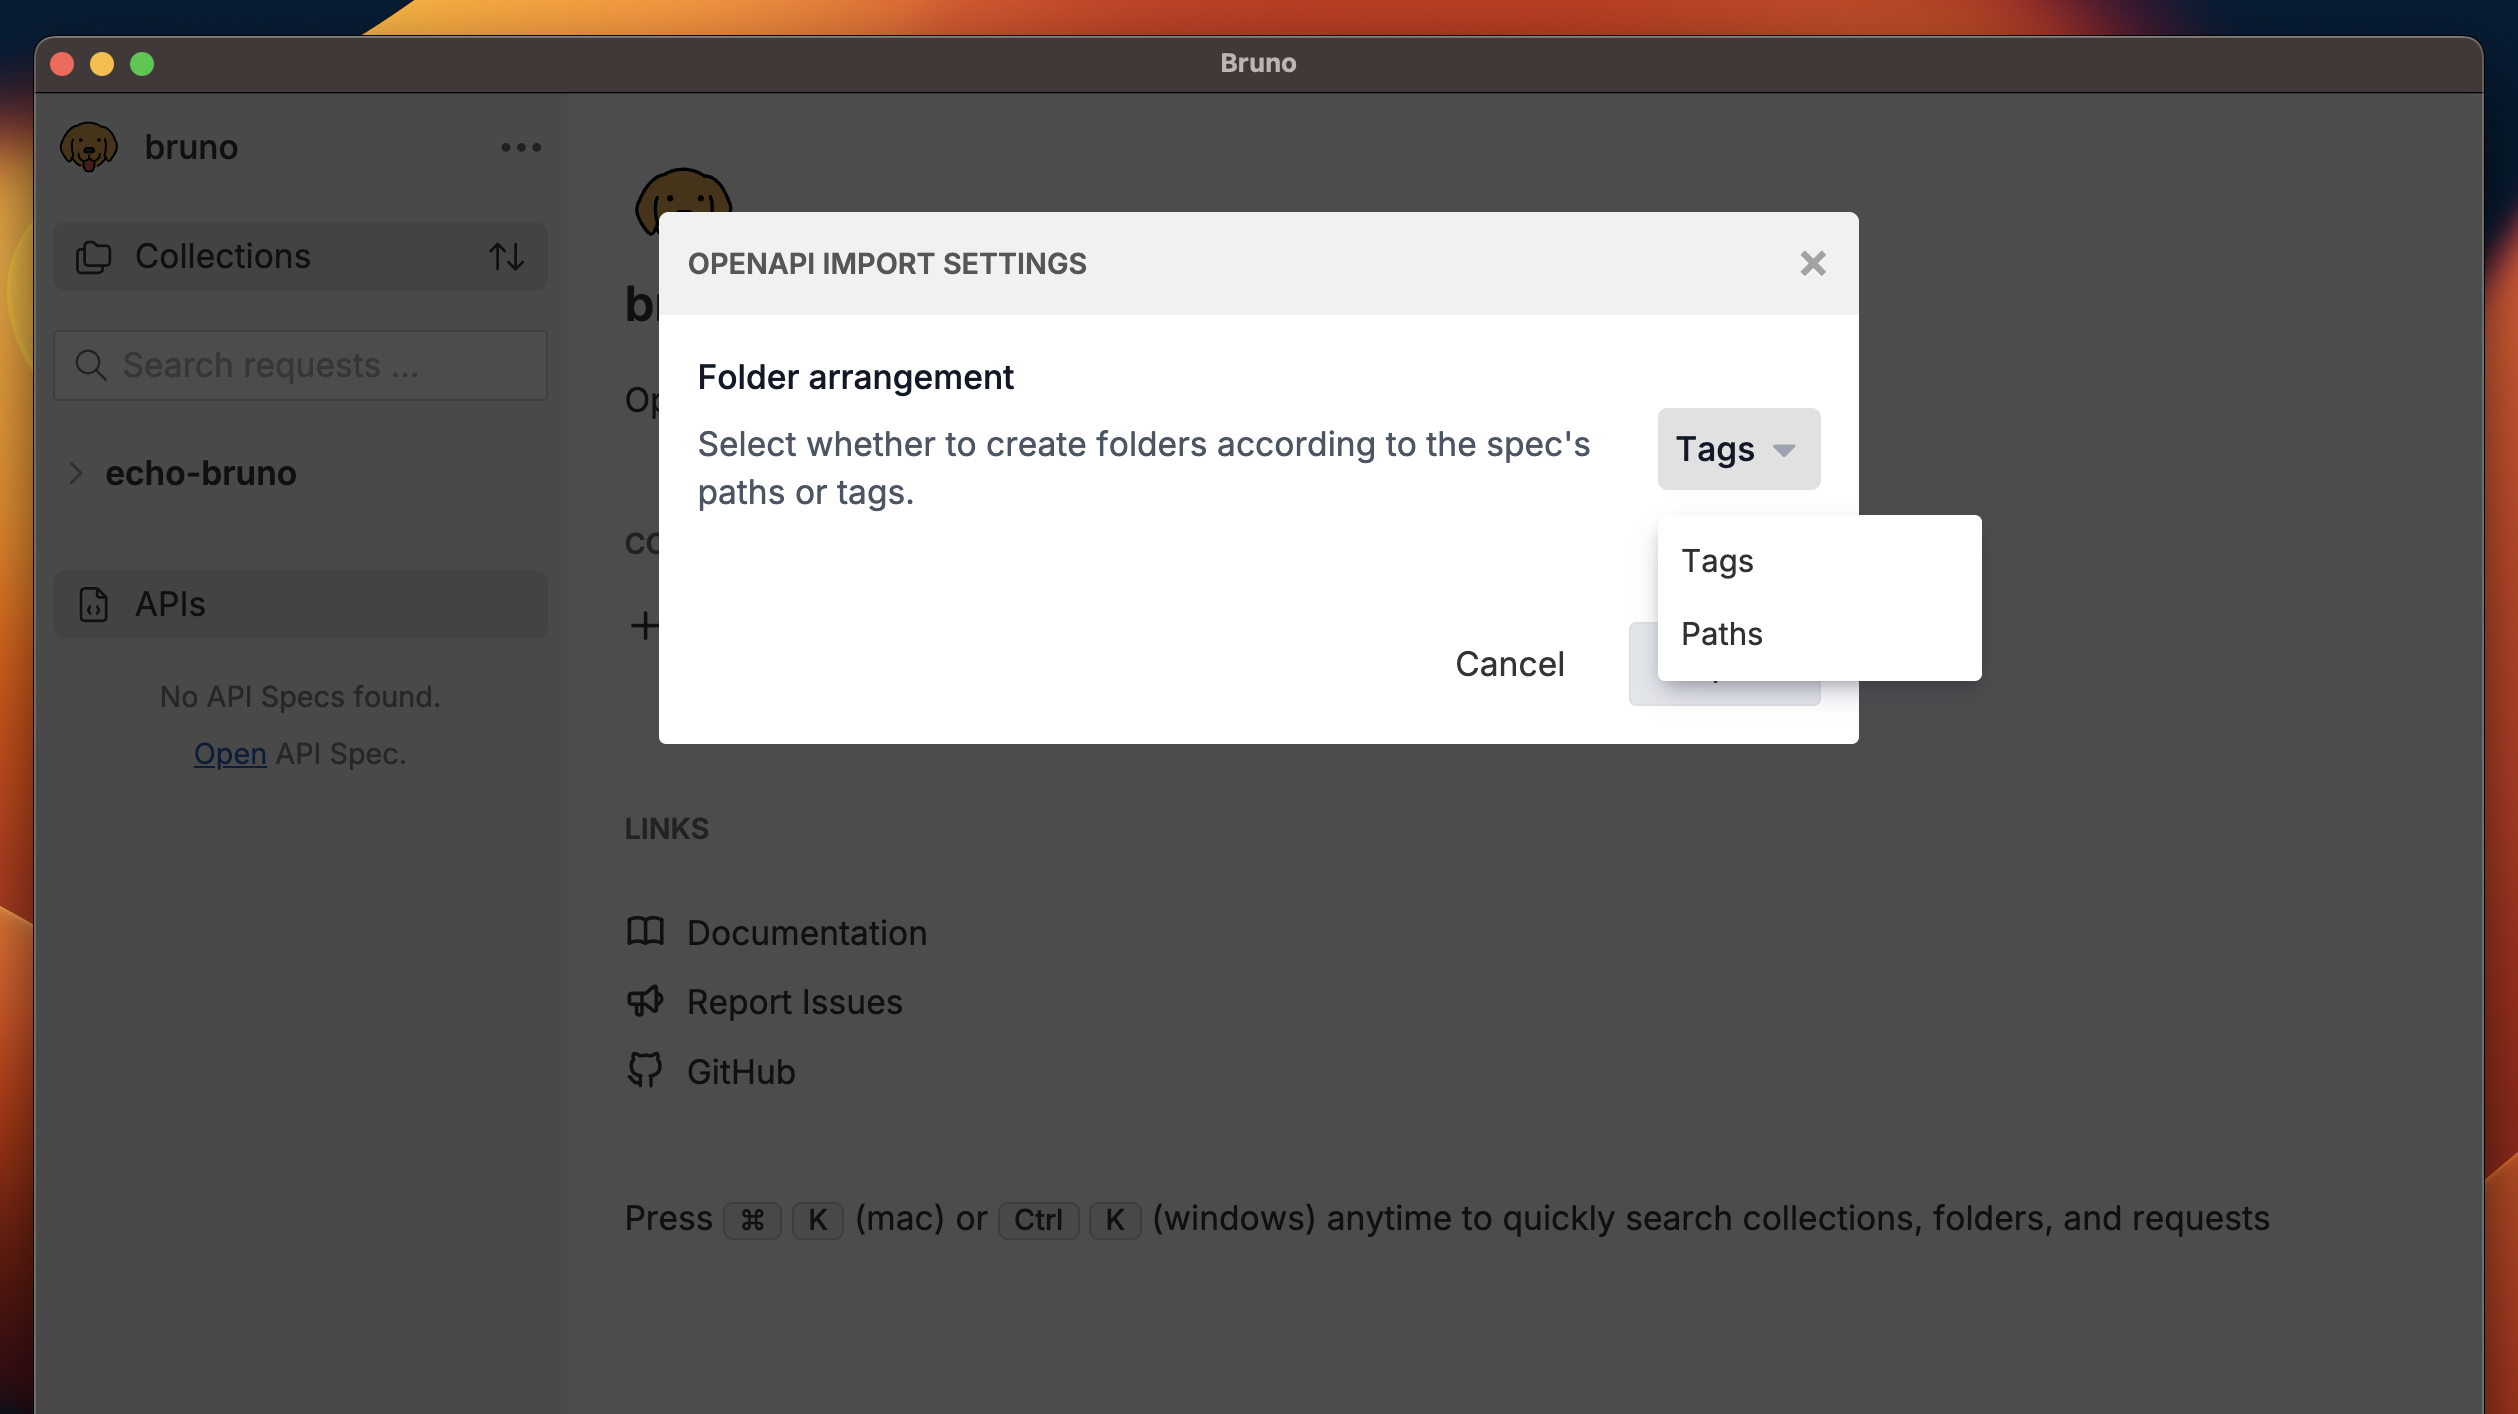
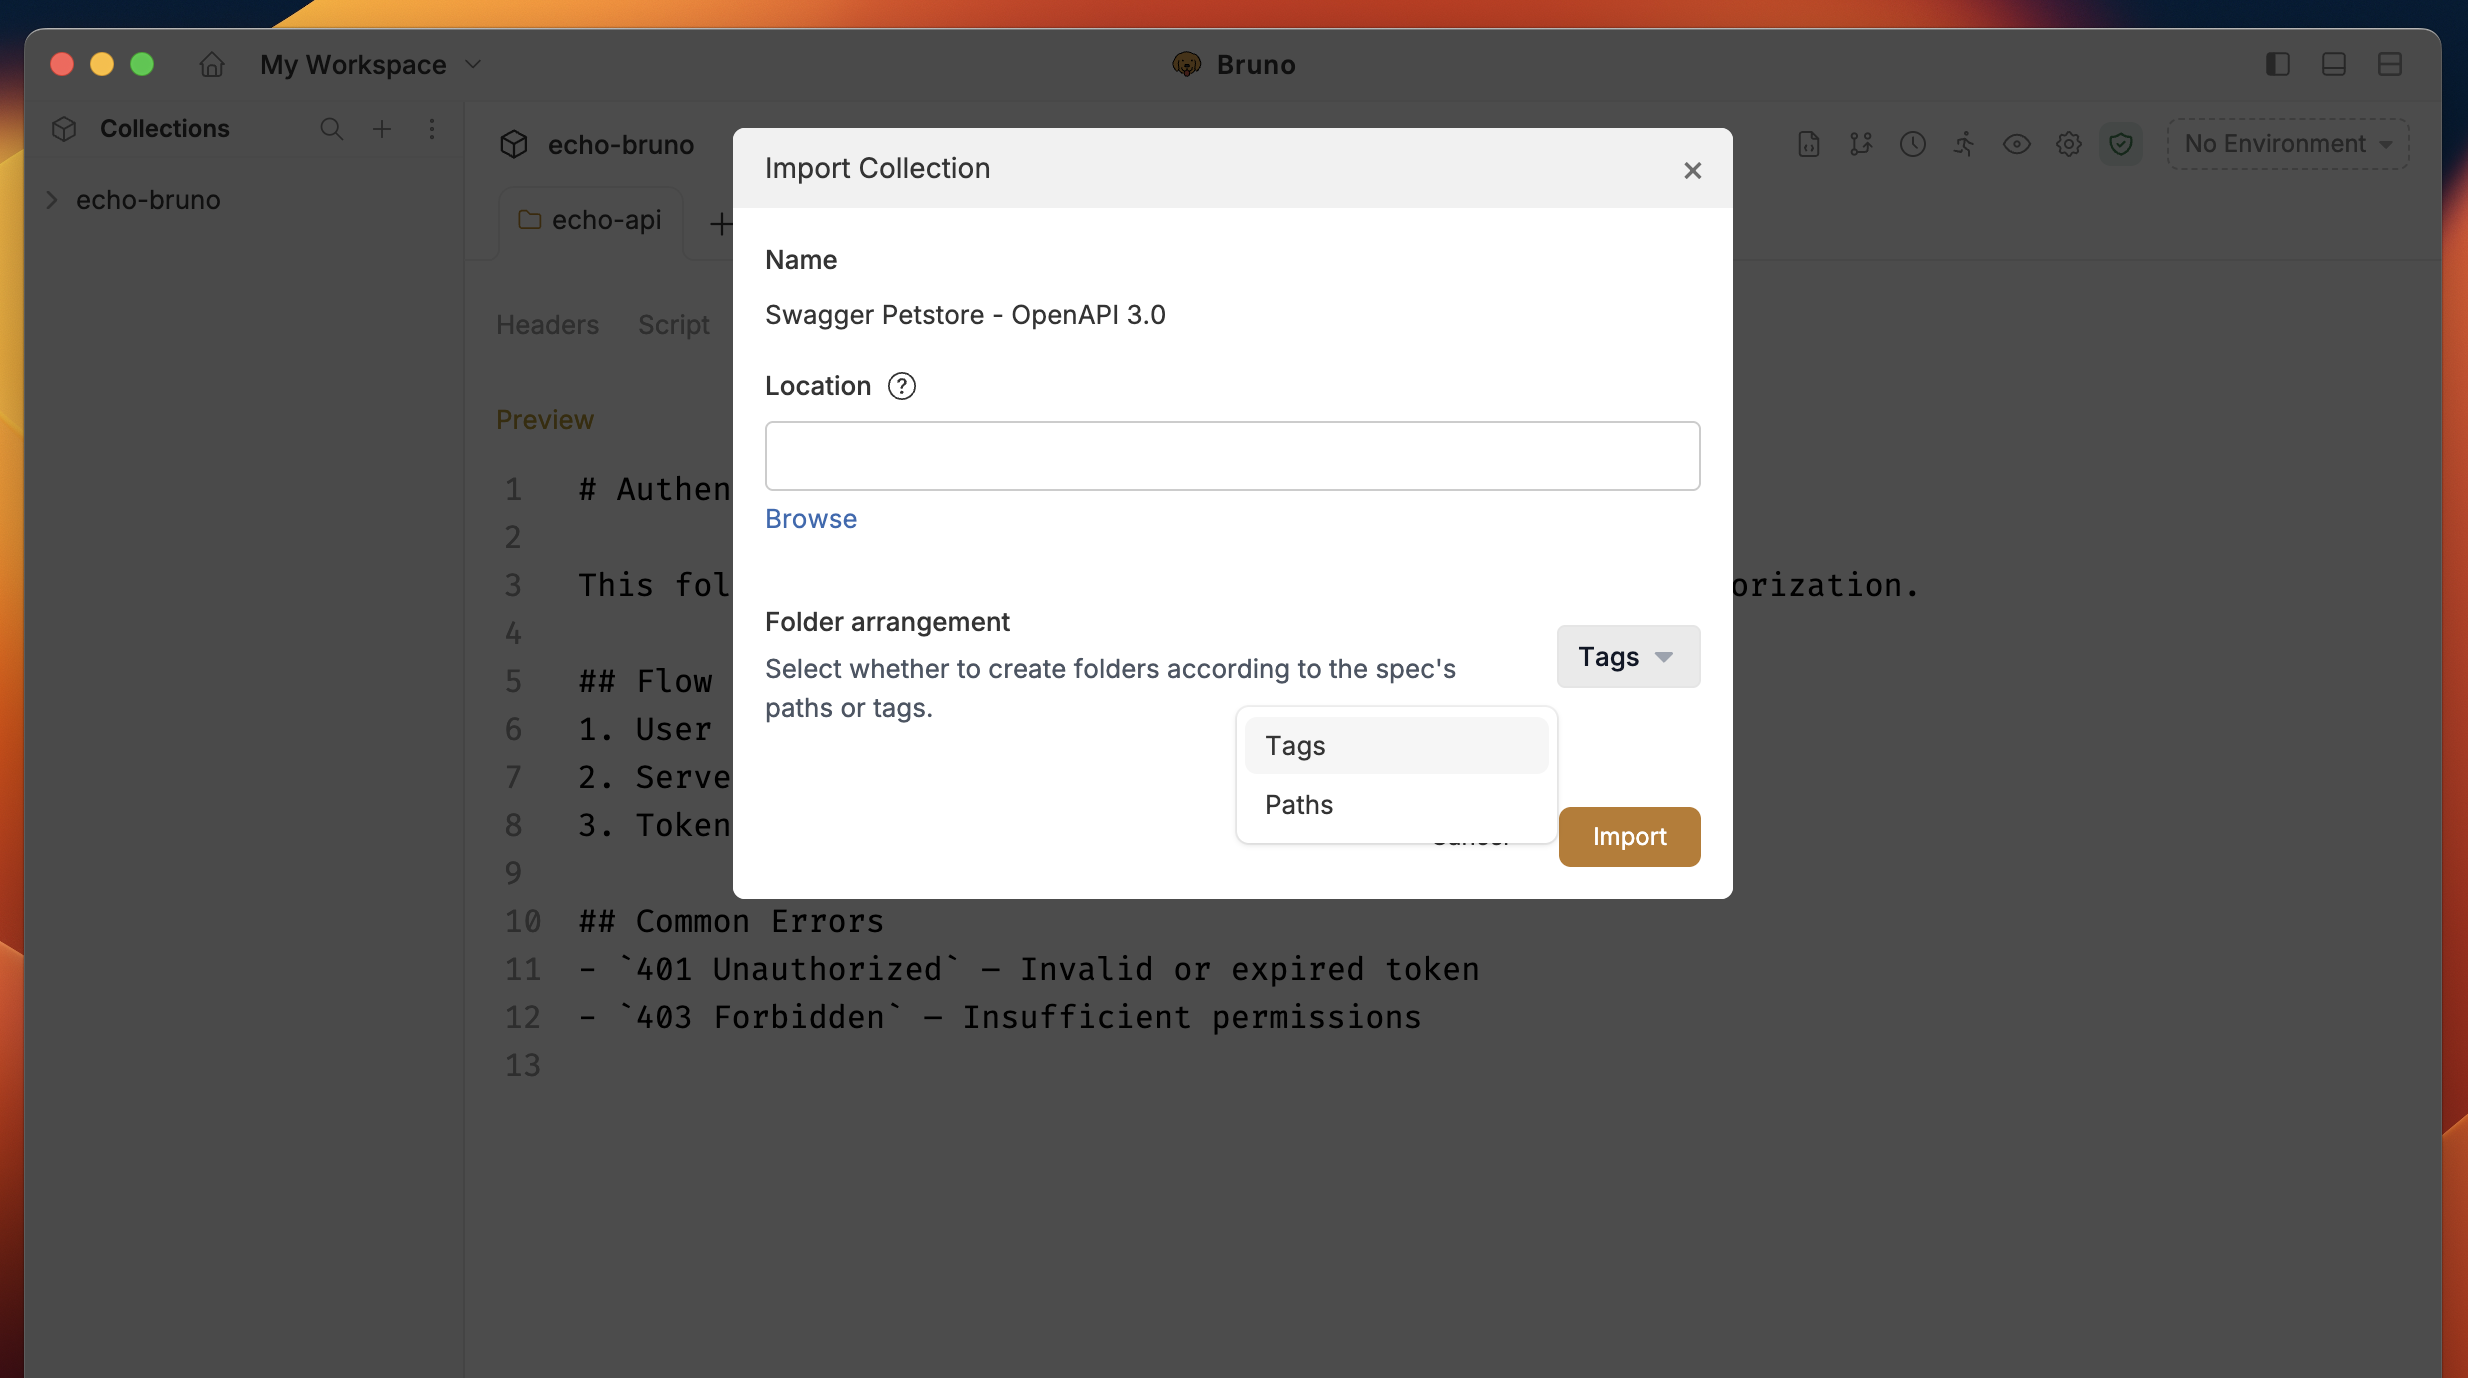
update csreenshot in openapi spec advance guide create documentation

diff --git a/content/api-docs/_meta.js b/content/api-docs/_meta.js
@@ -3,6 +3,7 @@ export default {
     "display": "hidden"
   },
   "overview": "Overview",
+  "workspace-docs": "Workspaces",
   "collection-docs": "Collections",
   "folder-docs": "Folders",
   "request-docs": "Requests"
